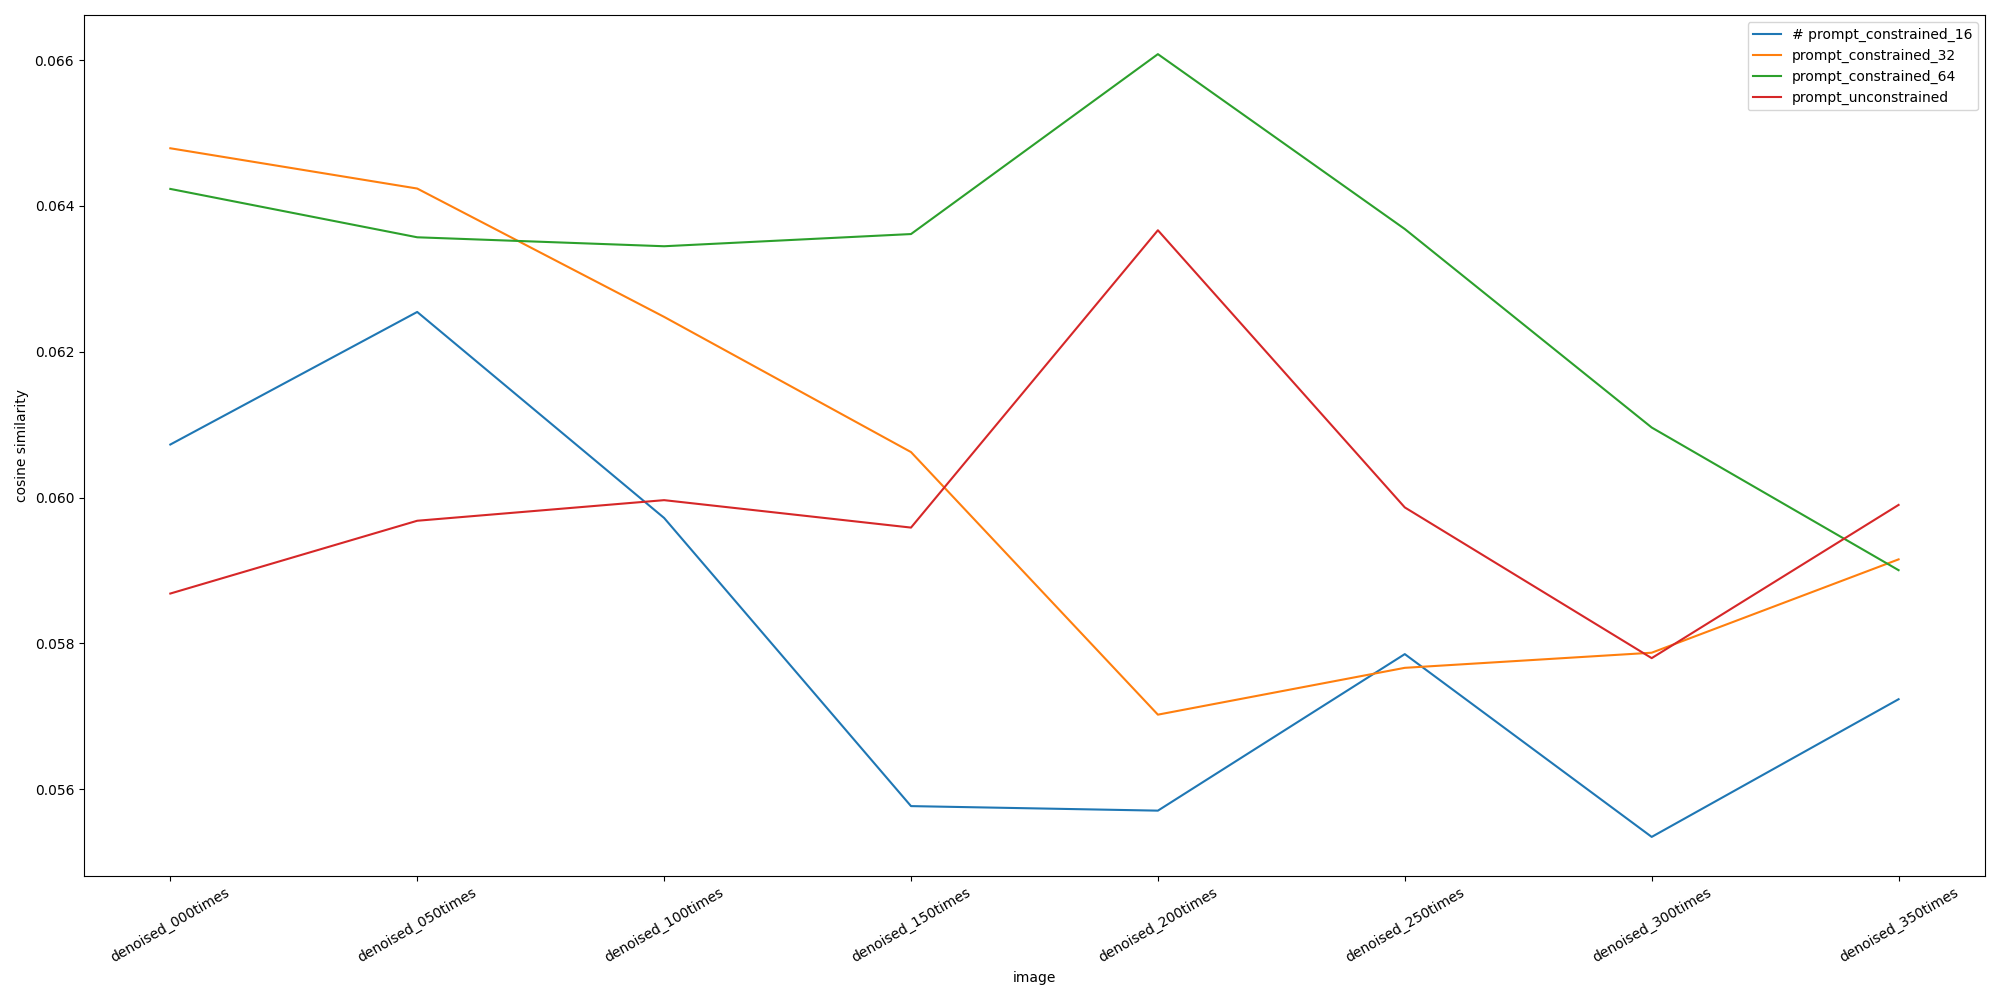
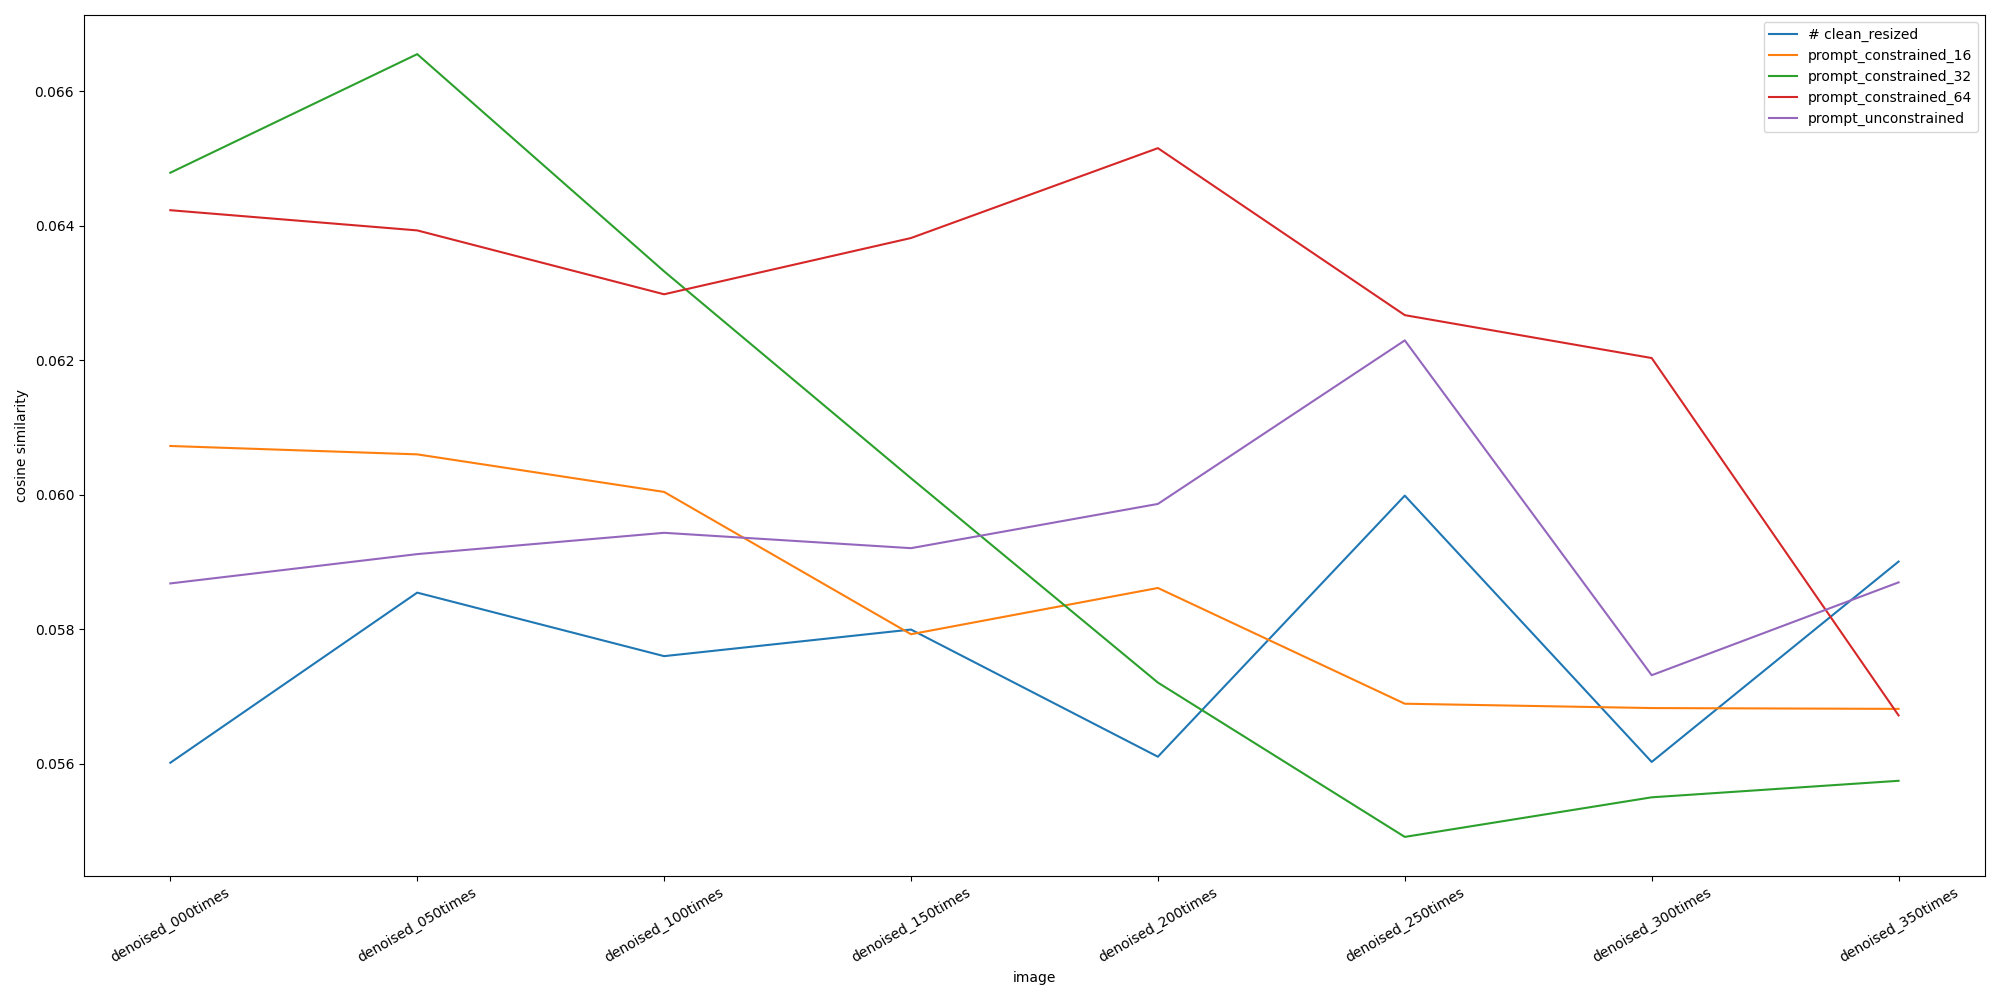
add clean result

diff --git a/visualization.py b/visualization.py
@@ -41,7 +41,7 @@ def single_type_text_line(df:pd.DataFrame, ax:matplotlib.axes.Axes):
     input: 
         df: cosine similarity dataframe 
             rows: text(**only one type**)
-            cols: image
+            cols: images
         ax: matplotlib axis
     output: plot
     '''
@@ -60,18 +60,19 @@ def single_type_text_line(df:pd.DataFrame, ax:matplotlib.axes.Axes):
     ax.set_ylabel("cosine similarity")
     ax.legend()
 
-f = "E:\\research\\MLLM\\src\\analysis\\similarity_matrix.csv"
-df = pd.read_csv(f)
-# print(df.columns)
+if __name__ == "__main__":
+    f = "E:\\research\\MLLM\\src\\analysis\\similarity_matrix.csv"
+    df = pd.read_csv(f)
+    # print(df.columns)
 
-# plot malicious text vs all images in one plot
-malicious = df[df["is_malicious"]==1]
-fig,ax = plt.subplots(1,1, figsize=(20,10))
-for i in range(4):
-    single_type_text_line(malicious.iloc[:,[j for j in range(i*8,i*8+8)]+[-1]], ax)
-plt.tight_layout()
-plt.savefig(f"./src/results/malicious_text_line.png")
-# plt.show()
+    # plot malicious text vs all images in one plot
+    malicious = df[df["is_malicious"]==1]
+    fig,ax = plt.subplots(1,1, figsize=(20,10))
+    for i in range(5):
+        single_type_text_line(malicious.iloc[:,[j for j in range(i*8,i*8+8)]+[-1]], ax)
+    plt.tight_layout()
+    plt.savefig(f"./src/results/malicious_text_line.png")
+    # plt.show()
 
 
 # # group images by different constrained value(16,32,64, unconstrained)
